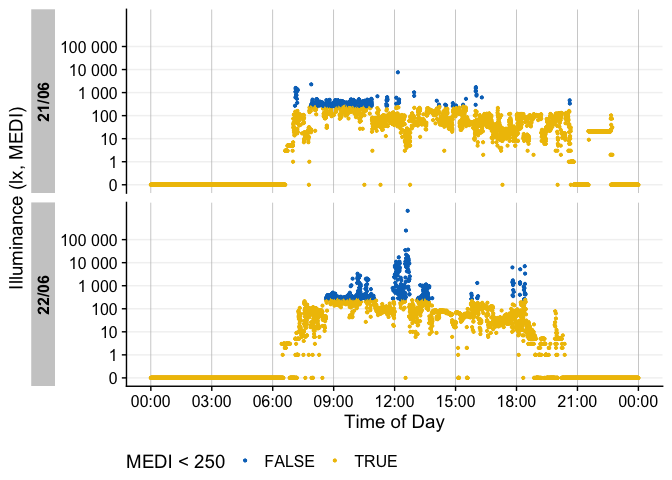
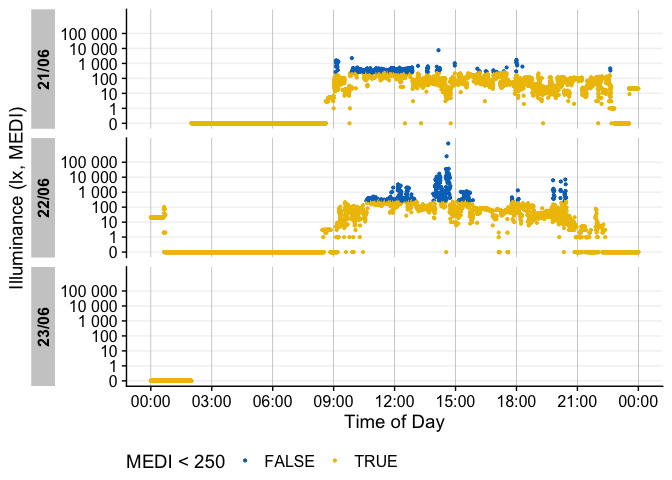
Bugfixes in DST handling and import functionality

diff --git a/README.md b/README.md
@@ -115,17 +115,25 @@ give quick, helpful feedback about the dataset.
 ``` r
 filename <- system.file("extdata/sample_data_LYS.csv", package = "LightLogR")
 dataset <- import$LYS(filename, tz = "Europe/Berlin")
-#> Successfully read in 11422 observations from LYS-file
+#> 
+#> Successfully read in 11'422 observations across 1 Ids from 1 LYS-file(s).
 #> Timezone set is Europe/Berlin.
-#> Start: 2023-06-21 00:00:12
-#> End: 2023-06-22 23:59:48
+#> 
+#> First Observation: 2023-06-21 02:00:12
+#> Last Observation: 2023-06-23 01:59:48
 #> Timespan: 2 days
+#> 
 #> Observation intervals: 
 #>   Id              interval.time     n pct    
 #> 1 sample_data_LYS 15s           10015 87.689%
 #> 2 sample_data_LYS 16s            1367 11.969%
 #> 3 sample_data_LYS 17s              23 0.201% 
 #> 4 sample_data_LYS 18s              16 0.140%
+```
+
+<img src="man/figures/README-unnamed-chunk-3-2.png" width="60%" style="display: block; margin: auto;" />
+
+``` r
 
 dataset %>% ungroup() %>% select(Datetime, lux, kelvin, MEDI) %>%  
   slice(8000:8005) %>% flextable() %>% autofit()
@@ -140,9 +148,10 @@ dataset %>% ungroup() %>% select(Datetime, lux, kelvin, MEDI) %>%
 </div>
 
 For more complex data, there is the useful `gg_overview()` function to
-get an immediate grasp of your data. See it here in action for a dataset
-with multiple participants. It also indicates where data is missing,
-based on the measurement epochs found in the data.
+get an immediate grasp of your data. It was automatically called during
+import (set `auto.plot = FALSE` to suppress this), but really shines for
+datasets with multiple participants. It also indicates where data is
+missing, based on the measurement epochs found in the data.
 
     LLdata %>% gg_overview()
 
